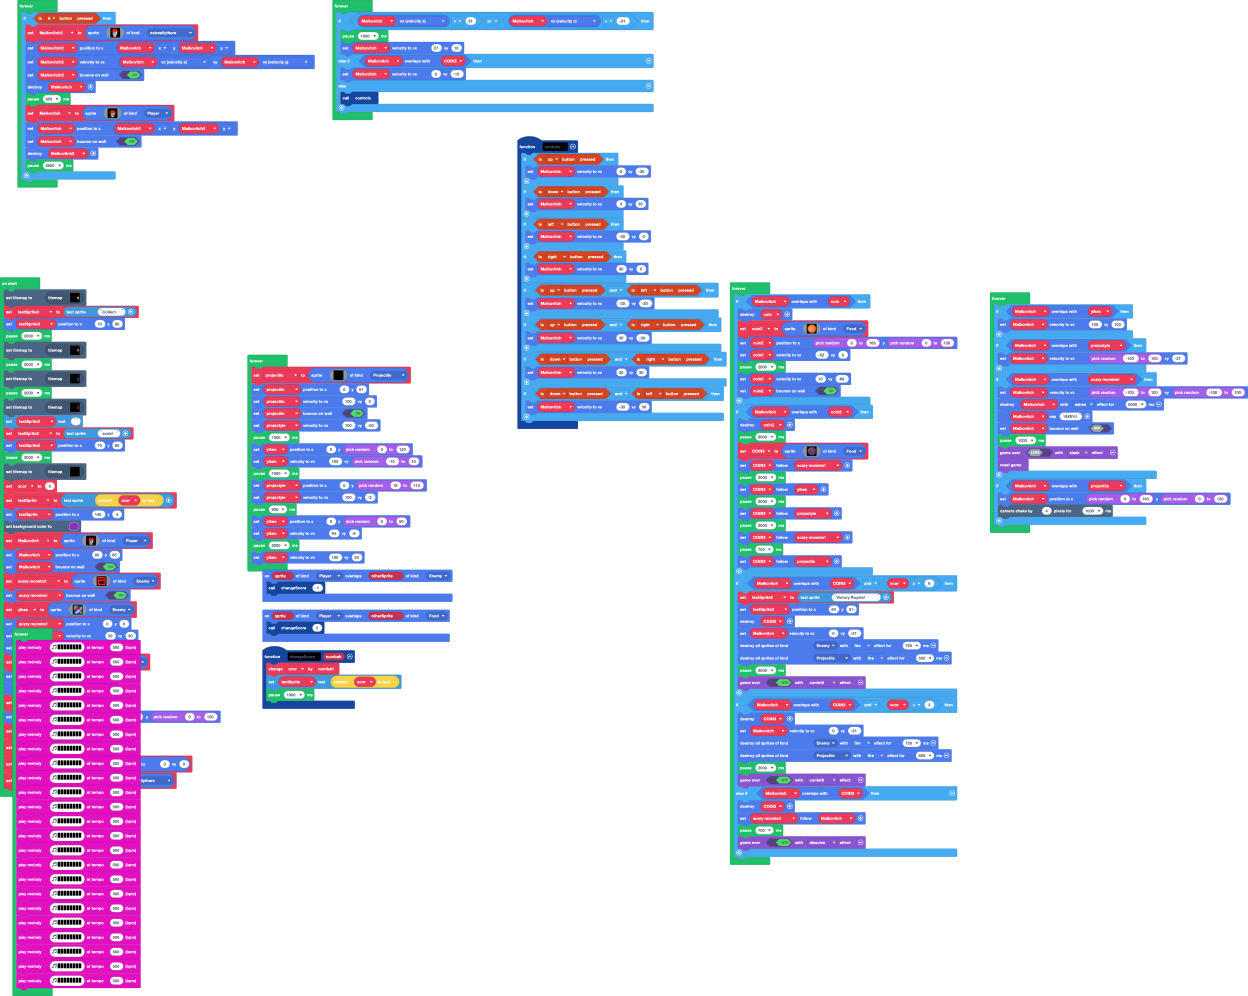
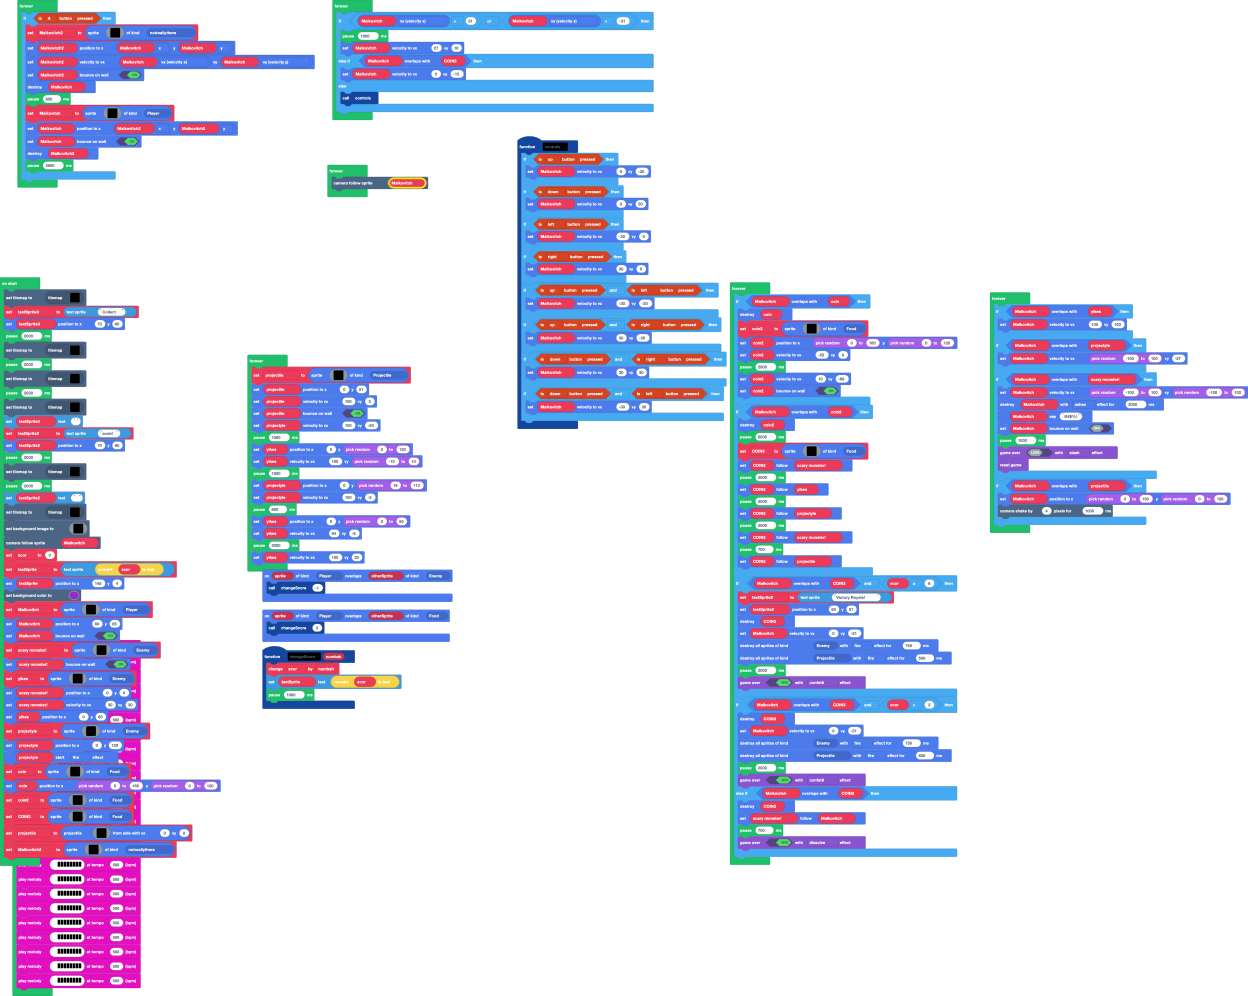
Update main.blocks, main.ts, tilemap.g.jres, tilemap.g.ts

Changed region(s): [[0.0, 0.4669, 0.1875, 0.8715], [0.25, 0.1556, 0.3438, 0.2179]]

diff --git a/main.ts b/main.ts
@@ -38,9 +38,9 @@ function controls () {
 sprites.onOverlap(SpriteKind.Player, SpriteKind.Enemy, function (sprite, otherSprite) {
     changeScore(-1)
 })
-let Malkovitch: Sprite = null
 let textSprite: TextSprite = null
 let scor = 0
+let Malkovitch: Sprite = null
 tiles.setCurrentTilemap(tilemap`level2`)
 let textSprite3 = textsprite.create("Collect")
 textSprite3.setPosition(70, 80)
@@ -55,6 +55,11 @@ let textSprite2 = textsprite.create("avoid")
 textSprite2.setPosition(70, 80)
 pause(2000)
 tiles.setCurrentTilemap(tilemap`level7`)
+pause(2000)
+textSprite2.setText(" ")
+tiles.setCurrentTilemap(tilemap`level8`)
+scene.setBackgroundImage(assets.image`Malkovich`)
+scene.cameraFollowSprite(Malkovitch)
 scor = 0
 textSprite = textsprite.create(convertToText(scor))
 textSprite.setPosition(145, 4)
@@ -216,22 +221,24 @@ let Malkovitch2 = sprites.create(img`
 forever(function () {
     if (controller.A.isPressed()) {
         Malkovitch2 = sprites.create(img`
-            . . . 2 2 2 2 2 2 2 2 2 . . . . 
-            . . . 2 2 2 2 2 2 2 2 2 . . . . 
-            . . 2 2 2 2 2 2 2 2 2 2 2 . . . 
-            . . 2 2 2 2 2 2 2 2 2 2 2 . . . 
-            2 2 2 2 2 2 2 2 2 2 2 2 2 2 2 2 
-            . . f c c c c c c c c d d f . . 
-            . . f d 8 d d d 8 d d d d f . . 
-            . . f d d d d d d d d d d f . . 
-            . . f d f f f f f 1 1 1 1 f . . 
-            . . f 1 f 1 1 1 f 1 1 1 f f . . 
-            . . f 1 1 1 1 1 1 1 1 1 f . . . 
-            . . f 1 1 1 1 1 1 1 1 1 f . . . 
-            . . f f f f f f f f f f f . . . 
-            . . . f d d d d d d d f . . . . 
-            . . . f d d d d d d d f . . . . 
-            . . . f d d d d d d d f . . . . 
+            ...2222222222.....
+            ...2222222222.....
+            ..2222222222222...
+            ..2222222222222...
+            22222222222222222.
+            ..fccccccccdddf...
+            ..fd8ddd8dddddf...
+            ..fdddddddddddf...
+            ..fdfffff11111f...
+            ..f1f111f1111ff...
+            ..f1111111111f....
+            ..f1111111111f....
+            ..ffffffffffff....
+            ...fddddddddf.....
+            ...fddddddddf.....
+            ...fddddddddf.....
+            ...fddddddddf.....
+            ...fddddddddf.....
             `, SpriteKind.notreallythere)
         Malkovitch2.setPosition(Malkovitch.x, Malkovitch.y)
         Malkovitch2.setVelocity(Malkovitch.vx, Malkovitch.vy)
@@ -254,6 +261,9 @@ forever(function () {
     } else {
         controls()
     }
+})
+forever(function () {
+    scene.cameraFollowSprite(Malkovitch)
 })
 forever(function () {
     if (Malkovitch.overlapsWith(coin)) {
@@ -346,7 +356,7 @@ forever(function () {
     }
     if (Malkovitch.overlapsWith(scary_monster)) {
         Malkovitch.setVelocity(randint(-100, 100), randint(-100, 100))
-        Malkovitch.destroy(effects.ashes, 8000)
+        Malkovitch.destroy(effects.ashes, 3000)
         Malkovitch.sayText("@#$%!")
         Malkovitch.setBounceOnWall(false)
         pause(1000)

diff --git a/tilemap.g.ts b/tilemap.g.ts
@@ -14,6 +14,8 @@ namespace myTiles {
     export const tile4 = image.ofBuffer(hex``);
     //% fixedInstance jres blockIdentity=images._tile
     export const tile6 = image.ofBuffer(hex``);
+    //% fixedInstance jres blockIdentity=images._tile
+    export const tile7 = image.ofBuffer(hex``);
 
     helpers._registerFactory("tilemap", function(name: string) {
         switch(helpers.stringTrim(name)) {
@@ -88,7 +90,15 @@ namespace myTiles {
 . . . . . 
 `, [myTiles.transparency16,myTiles.tile5,myTiles.tile4], TileScale.Sixteen);
             case "level7":
-            case "level7":return tiles.createTilemap(hex`1000100000000000000000000000000000000000000000000000000000000000000000000000000000000000000000000000000000000000000000000000000000000000000000000000000000000000000000000000000000000000000000000000000000000000000000000000000000000000000000000000000000000000000000000000000000000000000000000000000000000000000000000000000000000000000000000000000000000000000000000000000000000000000000000000000000000000000000000000000000000000000000000000000000000000000000000000000000000000000000000000000000000000000000000000000000000000`, img`
+            case "level7":return tiles.createTilemap(hex`0500050000000000000000000000000000000100000000020000000000`, img`
+. . . . . 
+. . . . . 
+. . . . . 
+. . . . . 
+. . . . . 
+`, [myTiles.transparency16,myTiles.tile6,myTiles.tile4], TileScale.Sixteen);
+            case "level8":
+            case "level8":return tiles.createTilemap(hex`1000100000000001010100000000000000010101000001010001010101010101010101010100010101000101010101010101000001010100010101000101010101010101010100000101010100010001010101010101000101000101010101000001010101010101010001000001010000010101010100000101010001010101010101010101010101010100010100000001000101010100000001010101010101010001010000000000010101000000010100010101000000000100000001010001000100010100010101010101010000010101000001010101010000000100000101000000000000010101000100000001000001000100010001000100000000010000`, img`
 . . . . . . . . . . . . . . . . 
 . . . . . . . . . . . . . . . . 
 . . . . . . . . . . . . . . . . 
@@ -105,7 +115,7 @@ namespace myTiles {
 . . . . . . . . . . . . . . . . 
 . . . . . . . . . . . . . . . . 
 . . . . . . . . . . . . . . . . 
-`, [myTiles.transparency16,myTiles.tile6], TileScale.Sixteen);
+`, [myTiles.transparency16,myTiles.tile7], TileScale.Sixteen);
         }
         return null;
     })
@@ -125,6 +135,8 @@ namespace myTiles {
             case "tile4":return tile4;
             case "myTile4":
             case "tile6":return tile6;
+            case "myTile5":
+            case "tile7":return tile7;
         }
         return null;
     })
